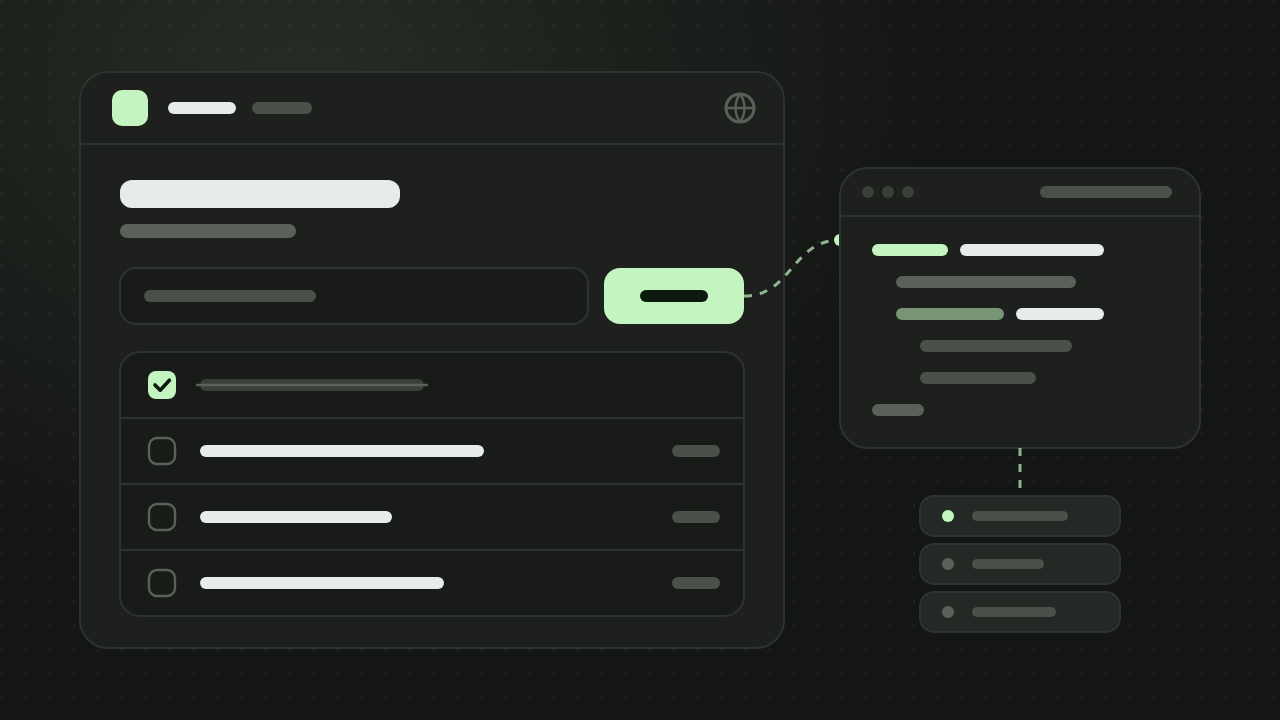
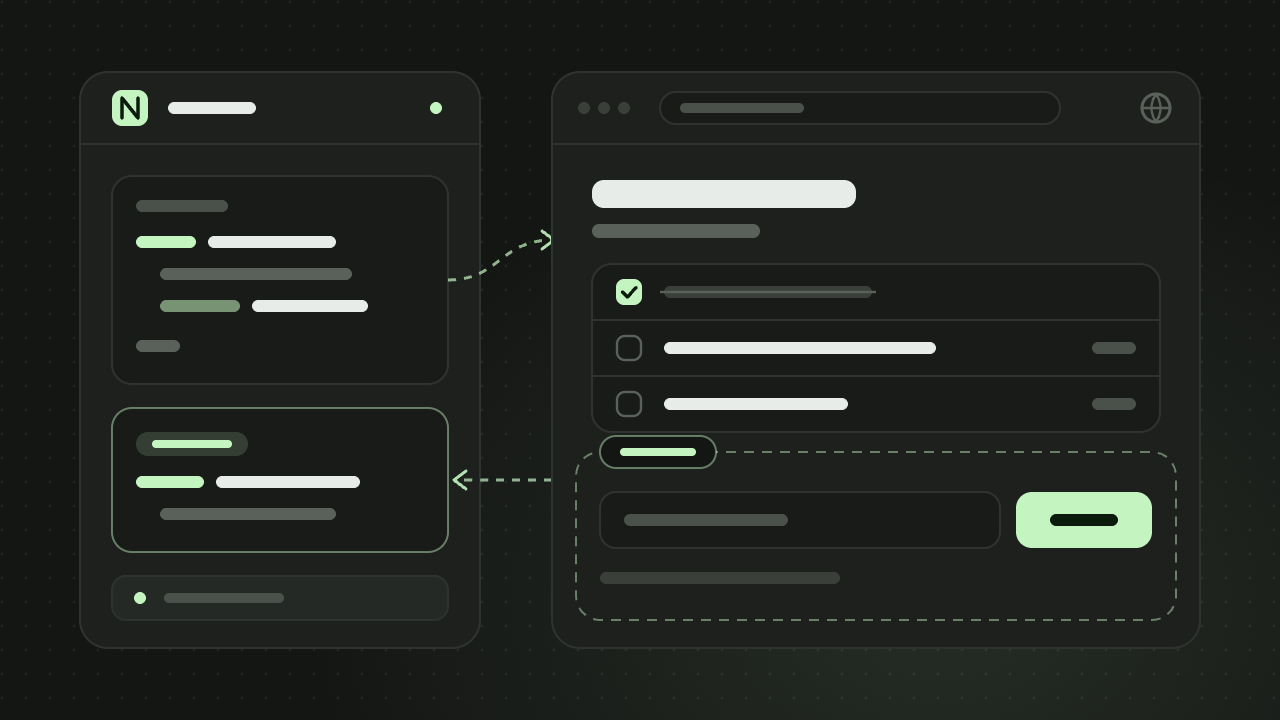
fix: update cover image and improve AGENTS.md with Next.js breaking changes notice

diff --git a/next.config.ts b/next.config.ts
@@ -6,14 +6,15 @@ import {
 } from "./scripts/locale-routes.ts";
 
 /**
- * The address Web Studio shows the dev server at: Next.js refuses its dev
- * resources to any origin it was not told about.
+ * The host Web Studio shows the dev server under (each preview is a
+ * subdomain of it): Next.js refuses its dev resources to any origin it was
+ * not told about.
  */
-const previewHosts = process.env.__VITE_ADDITIONAL_SERVER_ALLOWED_HOSTS;
+const previewHost = process.env.LAZINESS_PREVIEW_HOST;
 
 const config: NextConfig = {
 	reactCompiler: true,
-	allowedDevOrigins: previewHosts ? [`*${previewHosts}`] : [],
+	allowedDevOrigins: previewHost ? [`*.${previewHost}`] : [],
 };
 
 export default function nextConfig(phase: string): NextConfig {

diff --git a/AGENTS.md b/AGENTS.md
@@ -95,3 +95,13 @@ Step-by-step guides in `.claude/skills/` (also at `.agents/skills/`, the same fo
 | UI text and translations (house rules) | `.claude/skills/i18n-lingui/SKILL.md` |
 | Client-side global state (Zustand) | `.claude/skills/zustand-store/SKILL.md` |
 | Deploy (Vercel, Node, Netlify, Cloudflare) | `.claude/skills/deploy/SKILL.md` |
+
+<!-- BEGIN:nextjs-agent-rules -->
+
+## This is NOT the Next.js you know
+
+This version has breaking changes — APIs, conventions, and file structure may all differ from your training data. Read the relevant guide in `node_modules/next/dist/docs/` (resolved from this file's directory; in monorepos the `next` package may not be visible from the repo root) before writing any code. Heed deprecation notices.
+
+This block is written and re-added by `next dev` — verify at `node_modules/next/dist/server/lib/generate-agent-files.js`. Removing it from a diff only re-creates the uncommitted change; committing it with your work keeps the tree clean.
+
+<!-- END:nextjs-agent-rules -->
